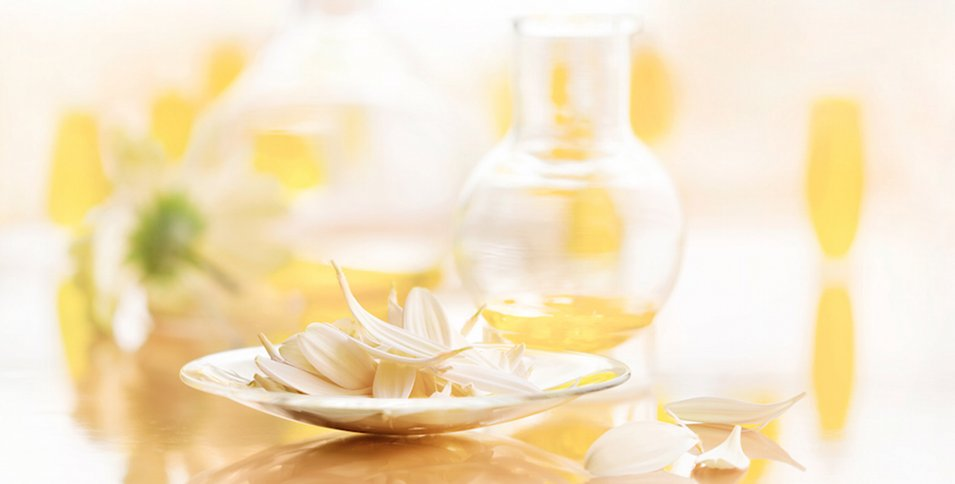
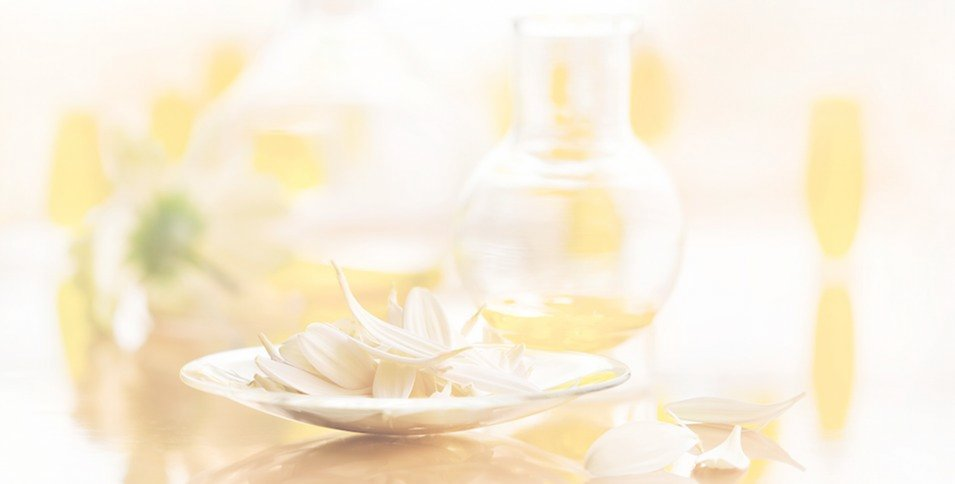
color and bg edits

diff --git a/index.html b/index.html
@@ -49,6 +49,7 @@
           <li data-target="#front-page-carousel" data-slide-to="2"></li>
           <li data-target="#front-page-carousel" data-slide-to="3"></li>
           <li data-target="#front-page-carousel" data-slide-to="4"></li>
+          <li data-target="#front-page-carousel" data-slide-to="4"></li>
         </ol>
 
         <!--Carousel images, width 1170px, height 250px -->
@@ -71,6 +72,9 @@
           <div class="item">
             <img src="img/carousel6.jpg" alt="Carousel image 6" class="carousel-image">
           </div>
+          <div class="item">
+            <img src="img/carousel8.jpg" alt="Carousel image 8" class="carousel-image">
+          </div>
           <!--<div class="item">
             <img src="img/carousel5.jpg" alt="Carousel image 5" class="carousel-image">
           </div>-->
@@ -86,48 +90,24 @@
       </div>
       <!-- Carousel end-->
       <div class="container">
-      	<div class="bg-img">
+      	<!-- <div class="bg-img"> -->
 
-        <!-- <div class="jumbotron">
-          <h1>Kaunis iho ja keho - kaiken ikää</h1>
-          <p class="lead">
-            Tina's Hoitola tarjoaa Sinulle mahdollisuuden irtatua arjen kiireestä ja nauttia hetken omaa aikaa.
-            Hoitolan tukipilarit ovat turvallisuus, hyvän välittäminen ja tehokkuus. Näiden arvojen kautta
-            sitoudumme toiminnassamme tuloksia tuoviin hoitoihin.<br/>
-            Toimintamme ytimessä on jatkuva alamme seuraaminen, koulutus ja uuden luominen. Haluamme jokaisen tuntevan,
-            että hän on ammattilaisen seurassa.
-            Sydämellisesti tervetuloa, ota rohkeasti yhteyttä!<br/>
-            -Tina's Hoitolan tiimi
-          </p>
-        </div> -->
-        <!-- Jumbotron end -->
-
-        <!-- Content in 3 columns -->
-      <!-- <div class="row front-page-columns"> -->
-          <!-- <div class="col-md-2">
-          <img src="img/palkki.png" alt="Palkki Vasen">
-          </div> -->
-          <!-- <div class="jumbotron"> -->
             <h1 align="center">Kaunis iho ja keho - kaiken ikää</h1>
             
 	            <p class="front-page-lead">
-	            Tina's Hoitola tarjoaa Sinulle mahdollisuuden irtatua arjen kiireestä ja nauttia hetken omaa aikaa.
+	            Tina's Hoitola tarjoaa Sinulle mahdollisuuden irtautua arjen kiireestä ja nauttia hetken omaa aikaa.
 	            Hoitolan tukipilarit ovat turvallisuus, hyvän välittäminen ja tehokkuus. Näiden arvojen kautta
 	            sitoudumme toiminnassamme tuloksia tuoviin hoitoihin.<br/>
 	            Toimintamme ytimessä on jatkuva alamme seuraaminen, koulutus ja uuden luominen. Haluamme jokaisen tuntevan,
-	            että hän on ammattilaisen seurassa. Meiltä saat yksilöllistä ihonhoitoa ja ihosi hoidon opastusta jo vuodesta 1994.
+	            että hän on ammattilaisen seurassa.</p>
+              <p class ="front-page-lead">Kauneushoitola Tina´s Espoo Viherlaakso, yksilöllistä ihonhoitoa ja ihosi hoidon opastusta jo vuodesta 1994.
+              Vi betjänar även på svenska!
 	            Sydämellisesti tervetuloa, ota rohkeasti yhteyttä!<br/>
 	            -Tina's Hoitolan tiimi</p>
-	          <!--<p align="center">
-	          <img src="img/front_eckstein.jpg" width="440px" alt="Front image">
-	          </p>-->
-          <!-- </div> -->
-          <!-- <div class="col-md-2">
-          <img src="img/palkki.png" width="190px" alt="Palkki Oikea">
-          </div> -->
-        <!-- </div> -->
-        <!-- Content in 3 columns end -->
-		</div><!-- /bg-img -->
+
+
+              <p class = "front-page-lead"><img src="img/sky_new.png" alt="Sky" height="75px" align="right"></p>
+		    <!-- </div> /bg-img -->
       </div><!-- /.container -->
     </div><!-- /.footer-wrap -->
     <div id="footer">

diff --git a/giftcards.html b/giftcards.html
@@ -41,22 +41,18 @@
 
       <div class="container">
         <h1 class="page-header">Lahjakortit</h1>
+        <p><img src="img/lahjakortit.jpg" alt="Lahjakortit" height="250"></p>
         <p class="lead">
-          Tina’s Hoitolan lahjakortti ilahduttaa tyylikkäästi merkkipäivinä ja juhlasesonkeina. Lahjakortin
+          Tina’s Hoitolan lahjakortti ilahduttaa tyylikkäästi merkkipäivinä ja juhlahetkinä. Lahjakortin
           sisällön voit valita joko haluamallesi arvolle, tietylle palvelulle tai hemmottelupaketille.
-          Suunnittelemme mielellämme Sinulle toiveittesi mukaisen lahjakortin. Esimerkkejä:
+          Suunnittelemme mielellämme Sinulle toiveittesi mukaisen lahjakortin.
         </p>
-        <ul>
-          <li class="lead">Morsiusparille häälahja</li>
-          <li class="lead">Hemmotteluhetki äidille</li>
-          <li class="lead">Ystävälle cityhoito tai</li>
-          <li class="lead">Rakkaalle talven piristyshetki</li>
-        </ul>
+
         <p class="lead">
           Voit noutaa lahjakortin hoitolastamme tai voimme sopia lahjakortin lähettämisestä Sinulle postitse.
         </p>
         <p class="lead">
-          <a href="contact.html" class="btn btn-lg btn-success" role="button">Ota yhteyttä</a> niin keskustelemme Sinulle parhaiten sopivista vaihtoehdoista.
+          <a href="contact.html" class="btn btn-lg btn-success" role="button">Ota yhteyttä</a><br/><br/>Niin keskustelemme Sinulle parhaiten sopivista vaihtoehdoista.
         </p>
         <p class="lead">
           <a href="pricing.html" class="btn btn-lg btn-success" role="button">Tutustu hinnastoon</a>

diff --git a/css/tinas.css b/css/tinas.css
@@ -136,16 +136,26 @@ body {
 }
 
 .lead {
-	font-size: 16px;	
+	font-size: 14px;
+	color: #8B3E2F;
+}
+
+.container h1, p, p strong {
+	color: #8B3E2F;
+}
+
+.container a {
+	color: #EAC117
 }
 
 .front-page-lead {
-	font-size: 16px;
+	font-size: 14px;
 	padding-left: 20%;
 	padding-right: 20%;
 	margin-bottom: 20px;
 	font-weight: 200;
 	line-height: 1.4;
+	color: #8B3E2F;
 }
 
 /* FRONT PAGE CAROUSEL */
@@ -157,8 +167,13 @@ img.carousel-image {
 	min-height: 450px;
 	background: url('http://www.cs.helsinki.fi/u/laxlax/tinas/img/bg-img.jpg');
 	background-repeat: no-repeat;
-	background-size: cover
+	background-size: cover;
 }
+
+.bg-img img {
+	max-width: auto;
+}
+
 /* FRONT PAGE CAROUSEL END */
 
 /* FRONT PAGE JUMBOTRON */
@@ -239,6 +254,9 @@ body {
 	  margin: 0 auto -100px;
 	  /* Pad bottom by footer height */
 	  padding: 0 0 100px;
+	  background: url('http://www.cs.helsinki.fi/u/laxlax/tinas/img/bg-img.jpg');
+	  background-repeat: no-repeat;
+	  background-size: cover;
 	}
 
 	/* Set the fixed height of the footer here */
@@ -250,7 +268,7 @@ body {
 	}
 }
 .text-muted {
-  color: #F8F8FF;
+  color: #8B3E2F;
 }
 
 /* Footer for windows smaller than 993px */
@@ -263,6 +281,9 @@ body {
 	  margin: 0 auto -230px;
 	  /* Pad bottom by footer height */
 	  padding: 0 0 230px;
+	  background: url('http://www.cs.helsinki.fi/u/laxlax/tinas/img/bg-img.jpg');
+	  background-repeat: no-repeat;
+	  background-size: cover;
 	}
 
 	/* Set the fixed height of the footer here */

diff --git a/infusion.html b/infusion.html
@@ -46,7 +46,7 @@
             <div class="service-section">
               <h1 class="page-header">Infusion</h1>
               <p>
-              	<b>Infusion tm – Neulattoman mesoterapian uusi aalto. Kivuton ja riskitön vaihtoehto</b></br>
+              	<b>Infusion™ – Neulattoman mesoterapian uusi aalto. Kivuton ja riskitön vaihtoehto</b></br>
               	Sähköimpulsseja hyödyntävä Infusion™ -menetelmä perustuu Nobel-palkittuun teknologiaan, ja on turvallinen sekä neulaton vaihtoehto perinteiselle
               	mesoterapialle.</br>
               	Infusion™ elvyttää ihoa ravitsevilla hoitoseerumeilla jotka virkistävät ihoa ja tekevät siitä joustavan ja kirkkaan. Elektroporaationa tunnettua

diff --git a/medik.html b/medik.html
@@ -54,7 +54,7 @@
               <p>
               	<strong>Medik8 uskoo:</strong><br/>
               	Tärkeisiin ja tutkittuihin anti-age ainesosiin, kuten Retinoliin, C-vitamiiniin, AHA - ja BHA -happoihin sekä epidermiksen
-              	kasvutekjöiden sekä aurinkosuojan käyttöön.
+              	kasvutekijöiden sekä aurinkosuojan käyttöön.
               <p>
                 <strong>Medik8 Peelinghoidot</strong><br/>
                 Medik8 kemiallinen kuorinta antaa silminnähtäviä hoitotuloksia moniin eri tarpeisiin, silti palutumisaika hoidosta on korkeintaan 
